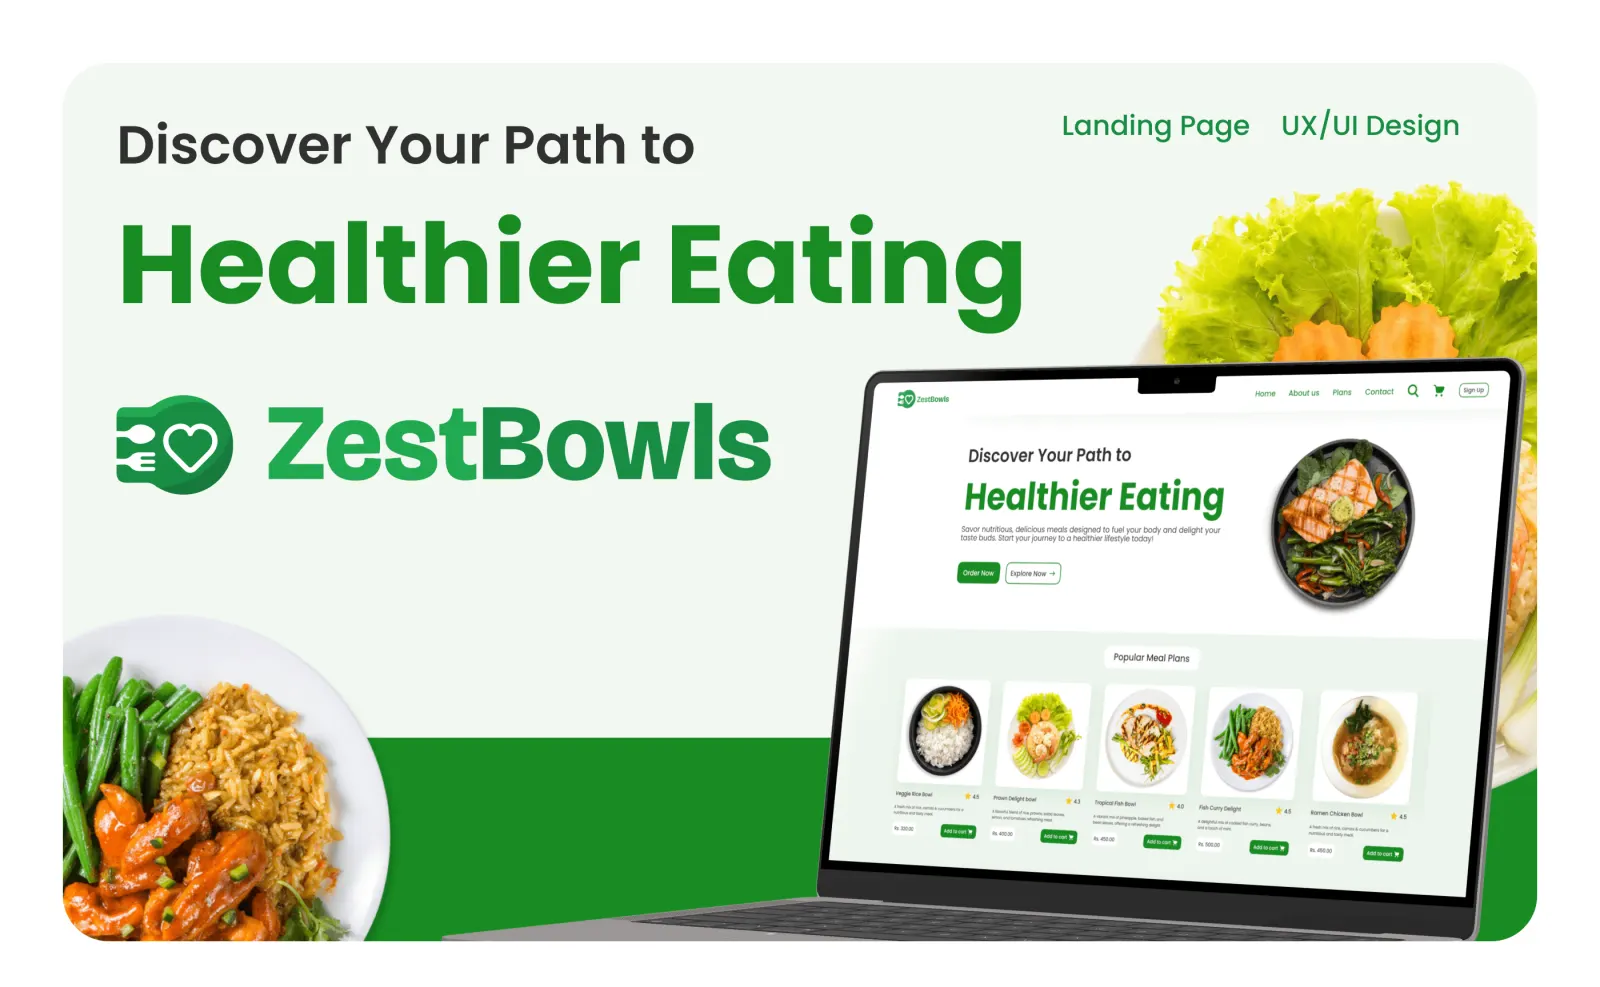
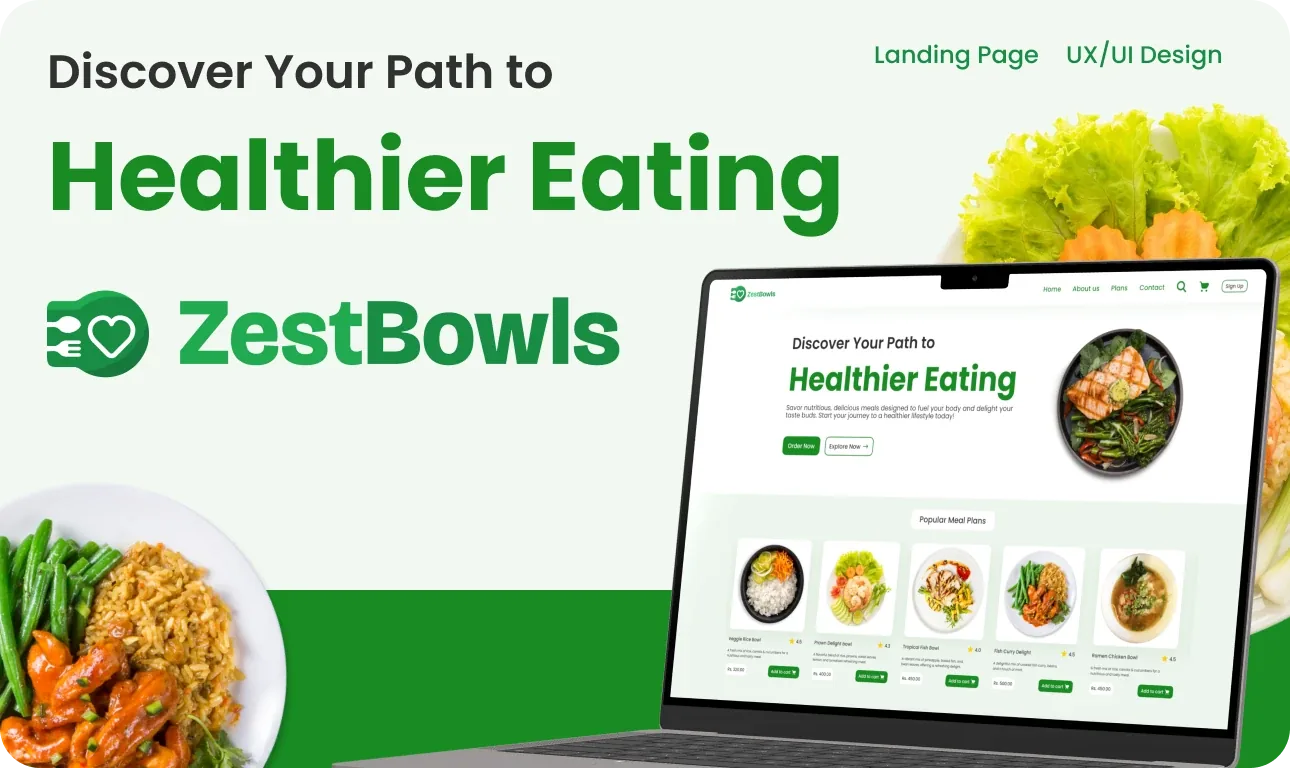
ZestBowls: clean page, colour and cover exports from the original design file

diff --git a/work/zestbowls.html b/work/zestbowls.html
@@ -35,18 +35,18 @@
       <p class="cs-lede">A web app for discovering and ordering healthy meals, including calorie deficit plans, with clear information and easy navigation.</p>
       <dl class="facts"><div><dt>Role</dt><dd>Product designer</dd></div><div><dt>Type</dt><dd>Product concept</dd></div><div><dt>Platform</dt><dd>Web app</dd></div><div><dt>Industry</dt><dd>Food and beverage</dd></div></dl>
     </div>
-    <div class="cs-cover is-wide" data-rise style="--d:150ms"><img src="../img/zest-hero.webp" alt="ZestBowls screens" width="1600" height="987"></div>
+    <div class="cs-cover is-wide" data-rise style="--d:150ms"><img src="../img/zest-hero.webp" alt="ZestBowls screens" width="1290" height="768"></div>
   </header>
   <nav class="cs-nav" aria-label="On this page"><a href="#overview">Overview</a><a href="#screens">Screens</a><a href="#design">Design</a></nav>
   <section class="cs-sec" id="overview"><h2>Overview</h2><div class="grid3"><div class="tile" data-reveal><h3>The idea</h3><p>ZestBowls helps people find fresh, nutritious meals that fit their diet, from everyday bowls to calorie deficit plans.</p></div><div class="tile" data-reveal><h3>Focus</h3><p>Appetising visuals, simple navigation and clear nutrition details, so comparing meals and ordering takes seconds.</p></div><div class="tile" data-reveal><h3>My role</h3><p>I designed it end to end: the brand, the UI kit and every page.</p></div></div></section><section class="cs-sec" id="screens"><h2>Screens</h2><div class="group" data-reveal>
       <div class="group-head"><h3>Landing page</h3><ul><li>A bold promise up top, then popular plans, this week&#x27;s deals, featured meals and why ZestBowls.</li><li>Scroll inside the window to see the whole page.</li></ul></div>
-      <div class="shots"><div class="frame frame-scroll"><div class="frame-bar"><i></i><i></i><i></i><span>zestbowls.lk</span></div><div class="frame-body" data-lenis-prevent><img src="../img/screens/zest-landing.webp" alt="ZestBowls landing page, part 1" width="1600" height="3428" loading="lazy" decoding="async" srcset="../img/screens/zest-landing-300.webp 300w, ../img/screens/zest-landing-540.webp 540w, ../img/screens/zest-landing.webp 1600w" sizes="(max-width: 640px) 34vw, (max-width: 900px) 160px, 240px"></div></div></div>
+      <div class="shots"><div class="frame frame-scroll"><div class="frame-bar"><i></i><i></i><i></i><span>zestbowls.lk</span></div><div class="frame-body" data-lenis-prevent><img src="../img/screens/zest-landing.webp" alt="ZestBowls landing page, part 1" width="933" height="2000" loading="lazy" decoding="async" srcset="../img/screens/zest-landing-300.webp 300w, ../img/screens/zest-landing-540.webp 540w, ../img/screens/zest-landing.webp 933w" sizes="(max-width: 640px) 34vw, (max-width: 900px) 160px, 240px"></div></div></div>
     </div><div class="group" data-reveal>
       <div class="group-head"><h3>Meal and cart</h3><ul><li>Calories, carbs, protein and fat on every meal, with the cart and order total always beside it.</li></ul></div>
-      <div class="shots"><div class="frame"><div class="frame-bar"><i></i><i></i><i></i><span>zestbowls.lk</span></div><div class="frame-body"><img src="../img/screens/zest-cart.webp" alt="ZestBowls meal and cart, part 1" width="1600" height="1312" loading="lazy" decoding="async"></div></div></div>
+      <div class="shots"><div class="frame"><div class="frame-bar"><i></i><i></i><i></i><span>zestbowls.lk</span></div><div class="frame-body"><img src="../img/screens/zest-cart.webp" alt="ZestBowls meal and cart, part 1" width="1600" height="1311" loading="lazy" decoding="async"></div></div></div>
     </div></section><section class="cs-sec" id="design"><h2>Look and feel</h2><div class="group" data-reveal>
       <div class="group-head"><h3>Colour and type</h3><ul><li>A fresh green palette with Poppins in four weights.</li></ul></div>
-      <div class="shots"><img class="plain" src="../img/screens/zest-colours.webp" alt="ZestBowls colours and type, part 1" width="1600" height="1121" loading="lazy" decoding="async"></div>
+      <div class="shots"><img class="plain" src="../img/screens/zest-colours.webp" alt="ZestBowls colours and type, part 1" width="1600" height="1076" loading="lazy" decoding="async"></div>
     </div><div class="group" data-reveal>
       <div class="group-head"><h3>UI kit</h3><ul><li>Navigation, buttons and icons built as one small kit.</li></ul></div>
       <div class="shots"><img class="plain" src="../img/screens/zest-kit.webp" alt="ZestBowls UI kit, part 1" width="1600" height="1125" loading="lazy" decoding="async"></div>

diff --git a/styles.css b/styles.css
@@ -858,3 +858,5 @@ html.lenis, html.lenis body { height: auto; }
 .org-fiverr img, .org-uwu img { height: 100%; filter: none; }
 .journey .step time, .journey .step:has(.org-fiverr) time { padding-right: 40px; }
 .shots img.plain { outline: 1px solid rgba(20, 20, 20, 0.08); outline-offset: -1px; }
+.frame-body { background: #fff; }
+.frame-scroll { max-width: 925px; margin-inline: auto; }
